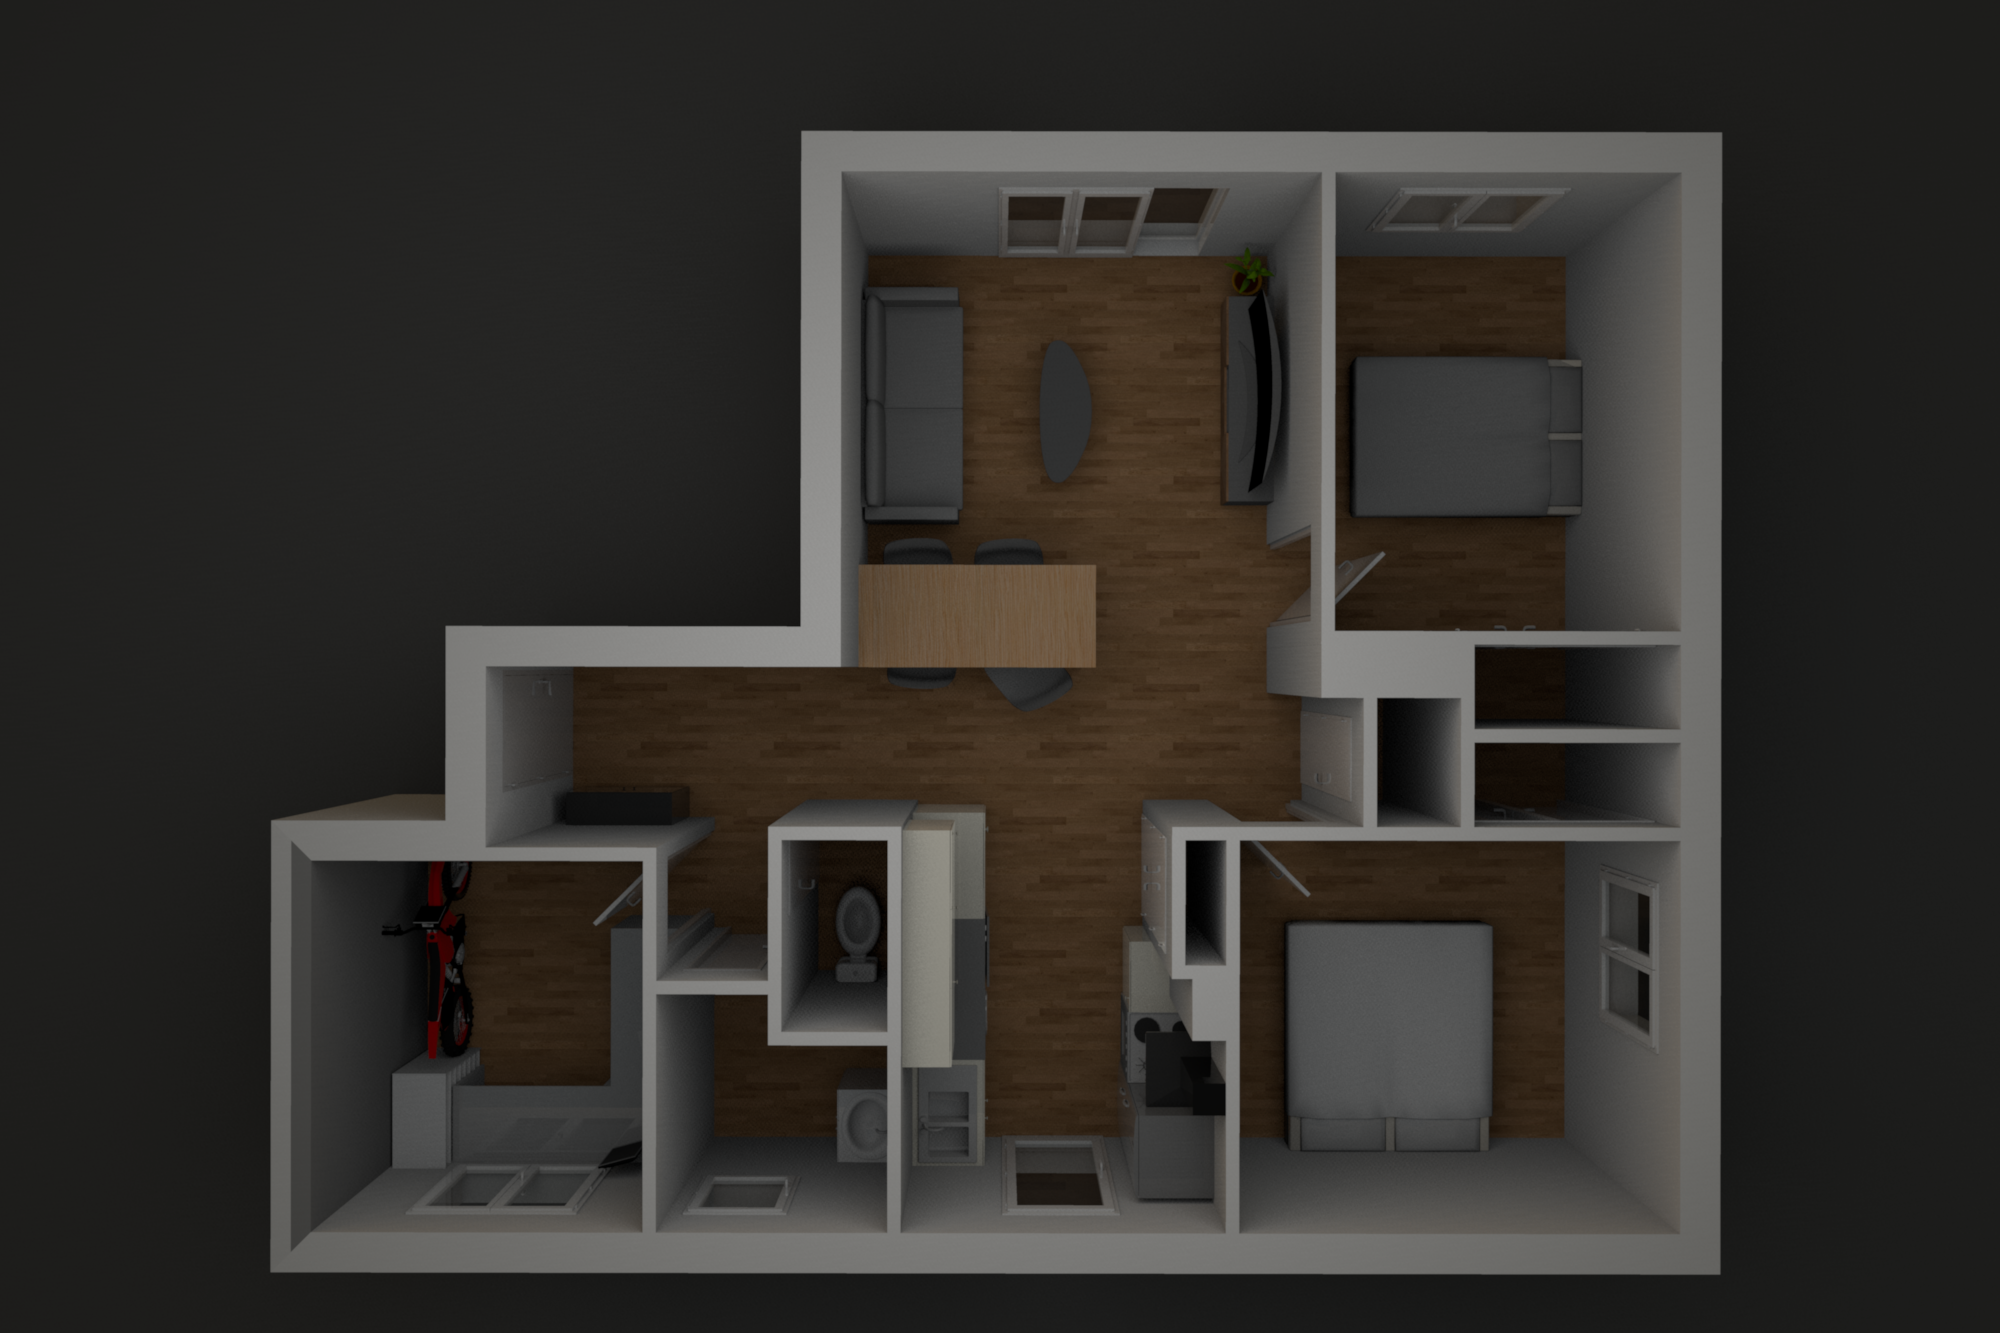
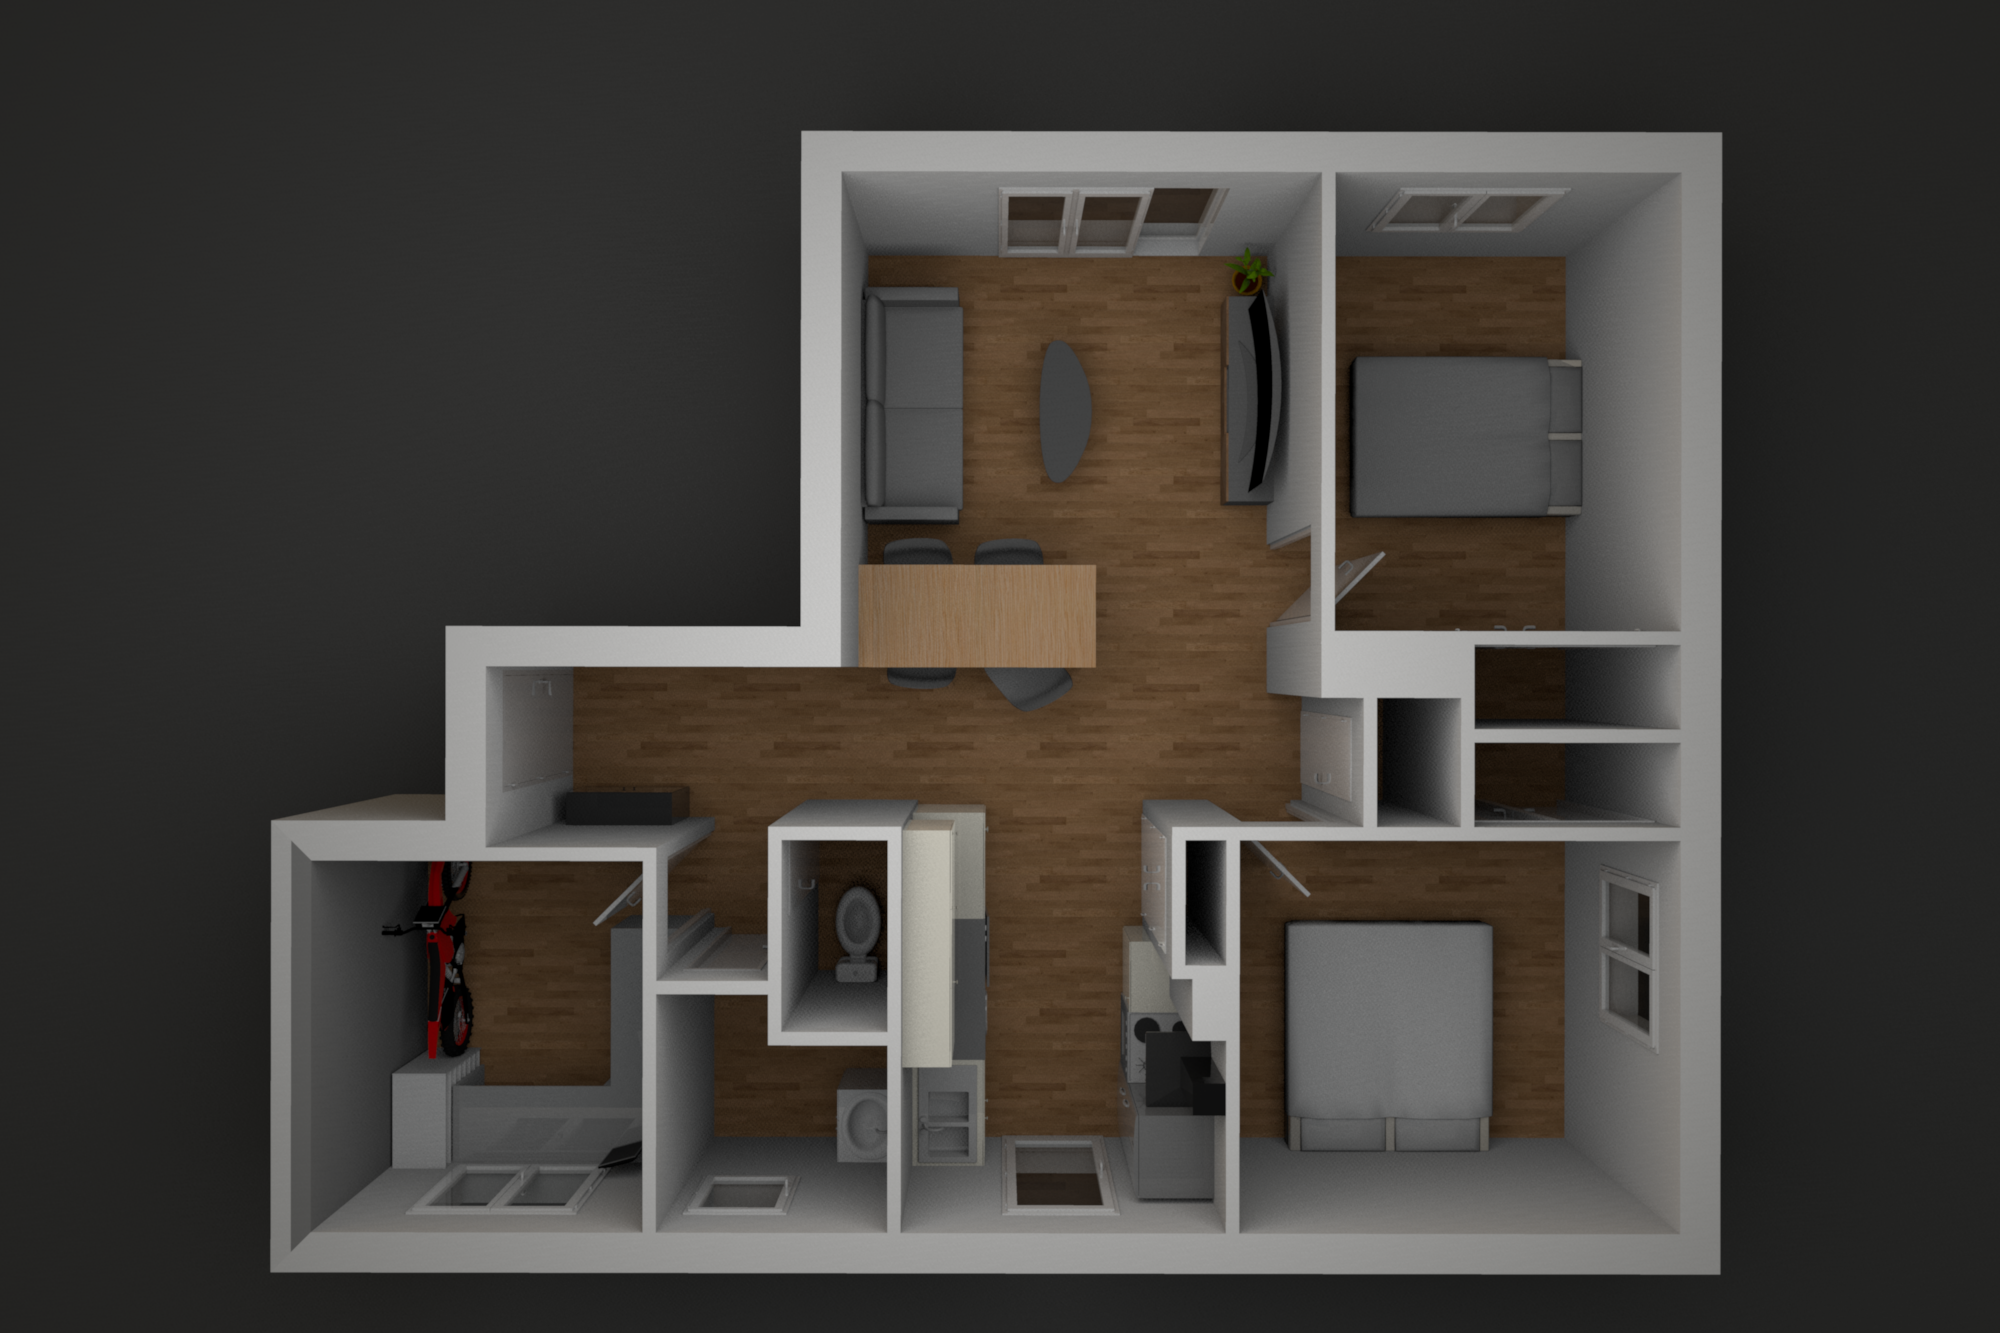
chore: update day/night opacity

Changed region(s): [[0.124, 0.0923, 0.868, 0.9535]]

diff --git a/src/components/House/index.tsx b/src/components/House/index.tsx
@@ -15,11 +15,11 @@ export function House() {
     const updateOpacity = () => {
       const hour = new Date().getHours();
       if (hour >= 6 && hour < 8) {
-        setNightOpacity((hour - 6) / 2);
+        setNightOpacity(1 - (hour - 6) / 2);
       } else if (hour >= 8 && hour < 16) {
         setNightOpacity(0);
       } else if (hour >= 16 && hour < 18) {
-        setNightOpacity((18 - hour) / 2);
+        setNightOpacity((hour - 16) / 2);
       } else if (hour >= 18 || hour < 6) {
         setNightOpacity(1);
       }
